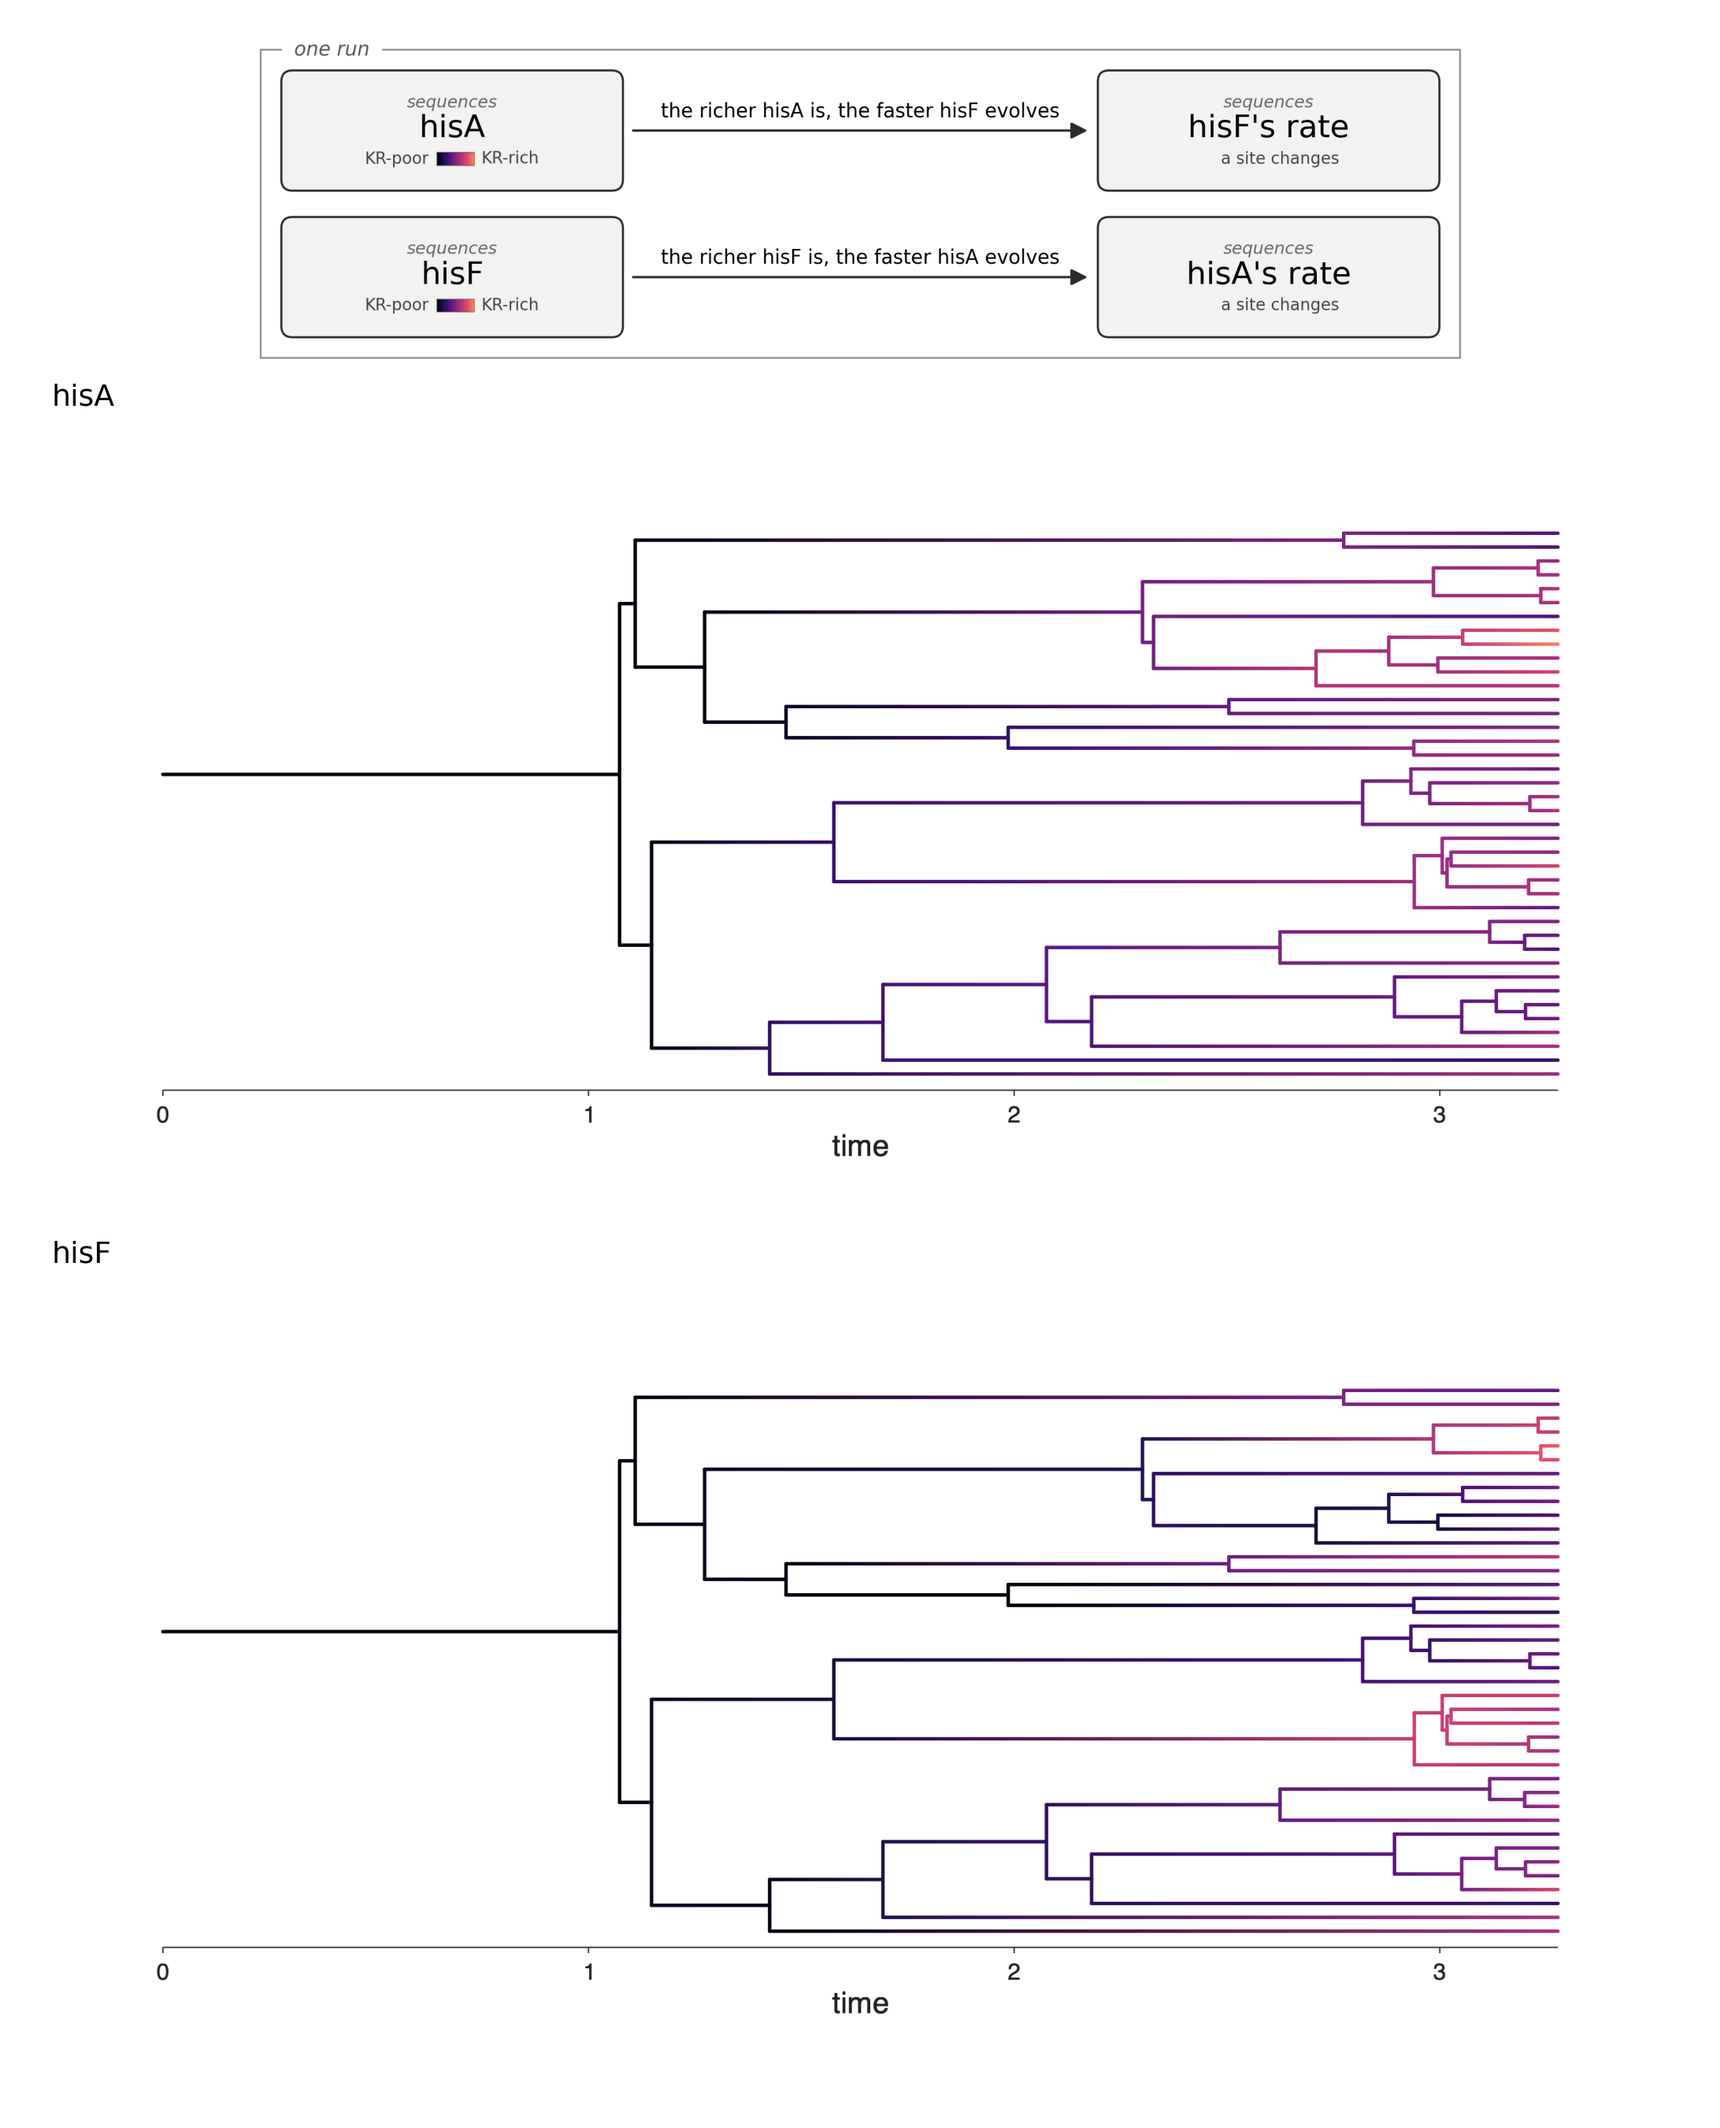
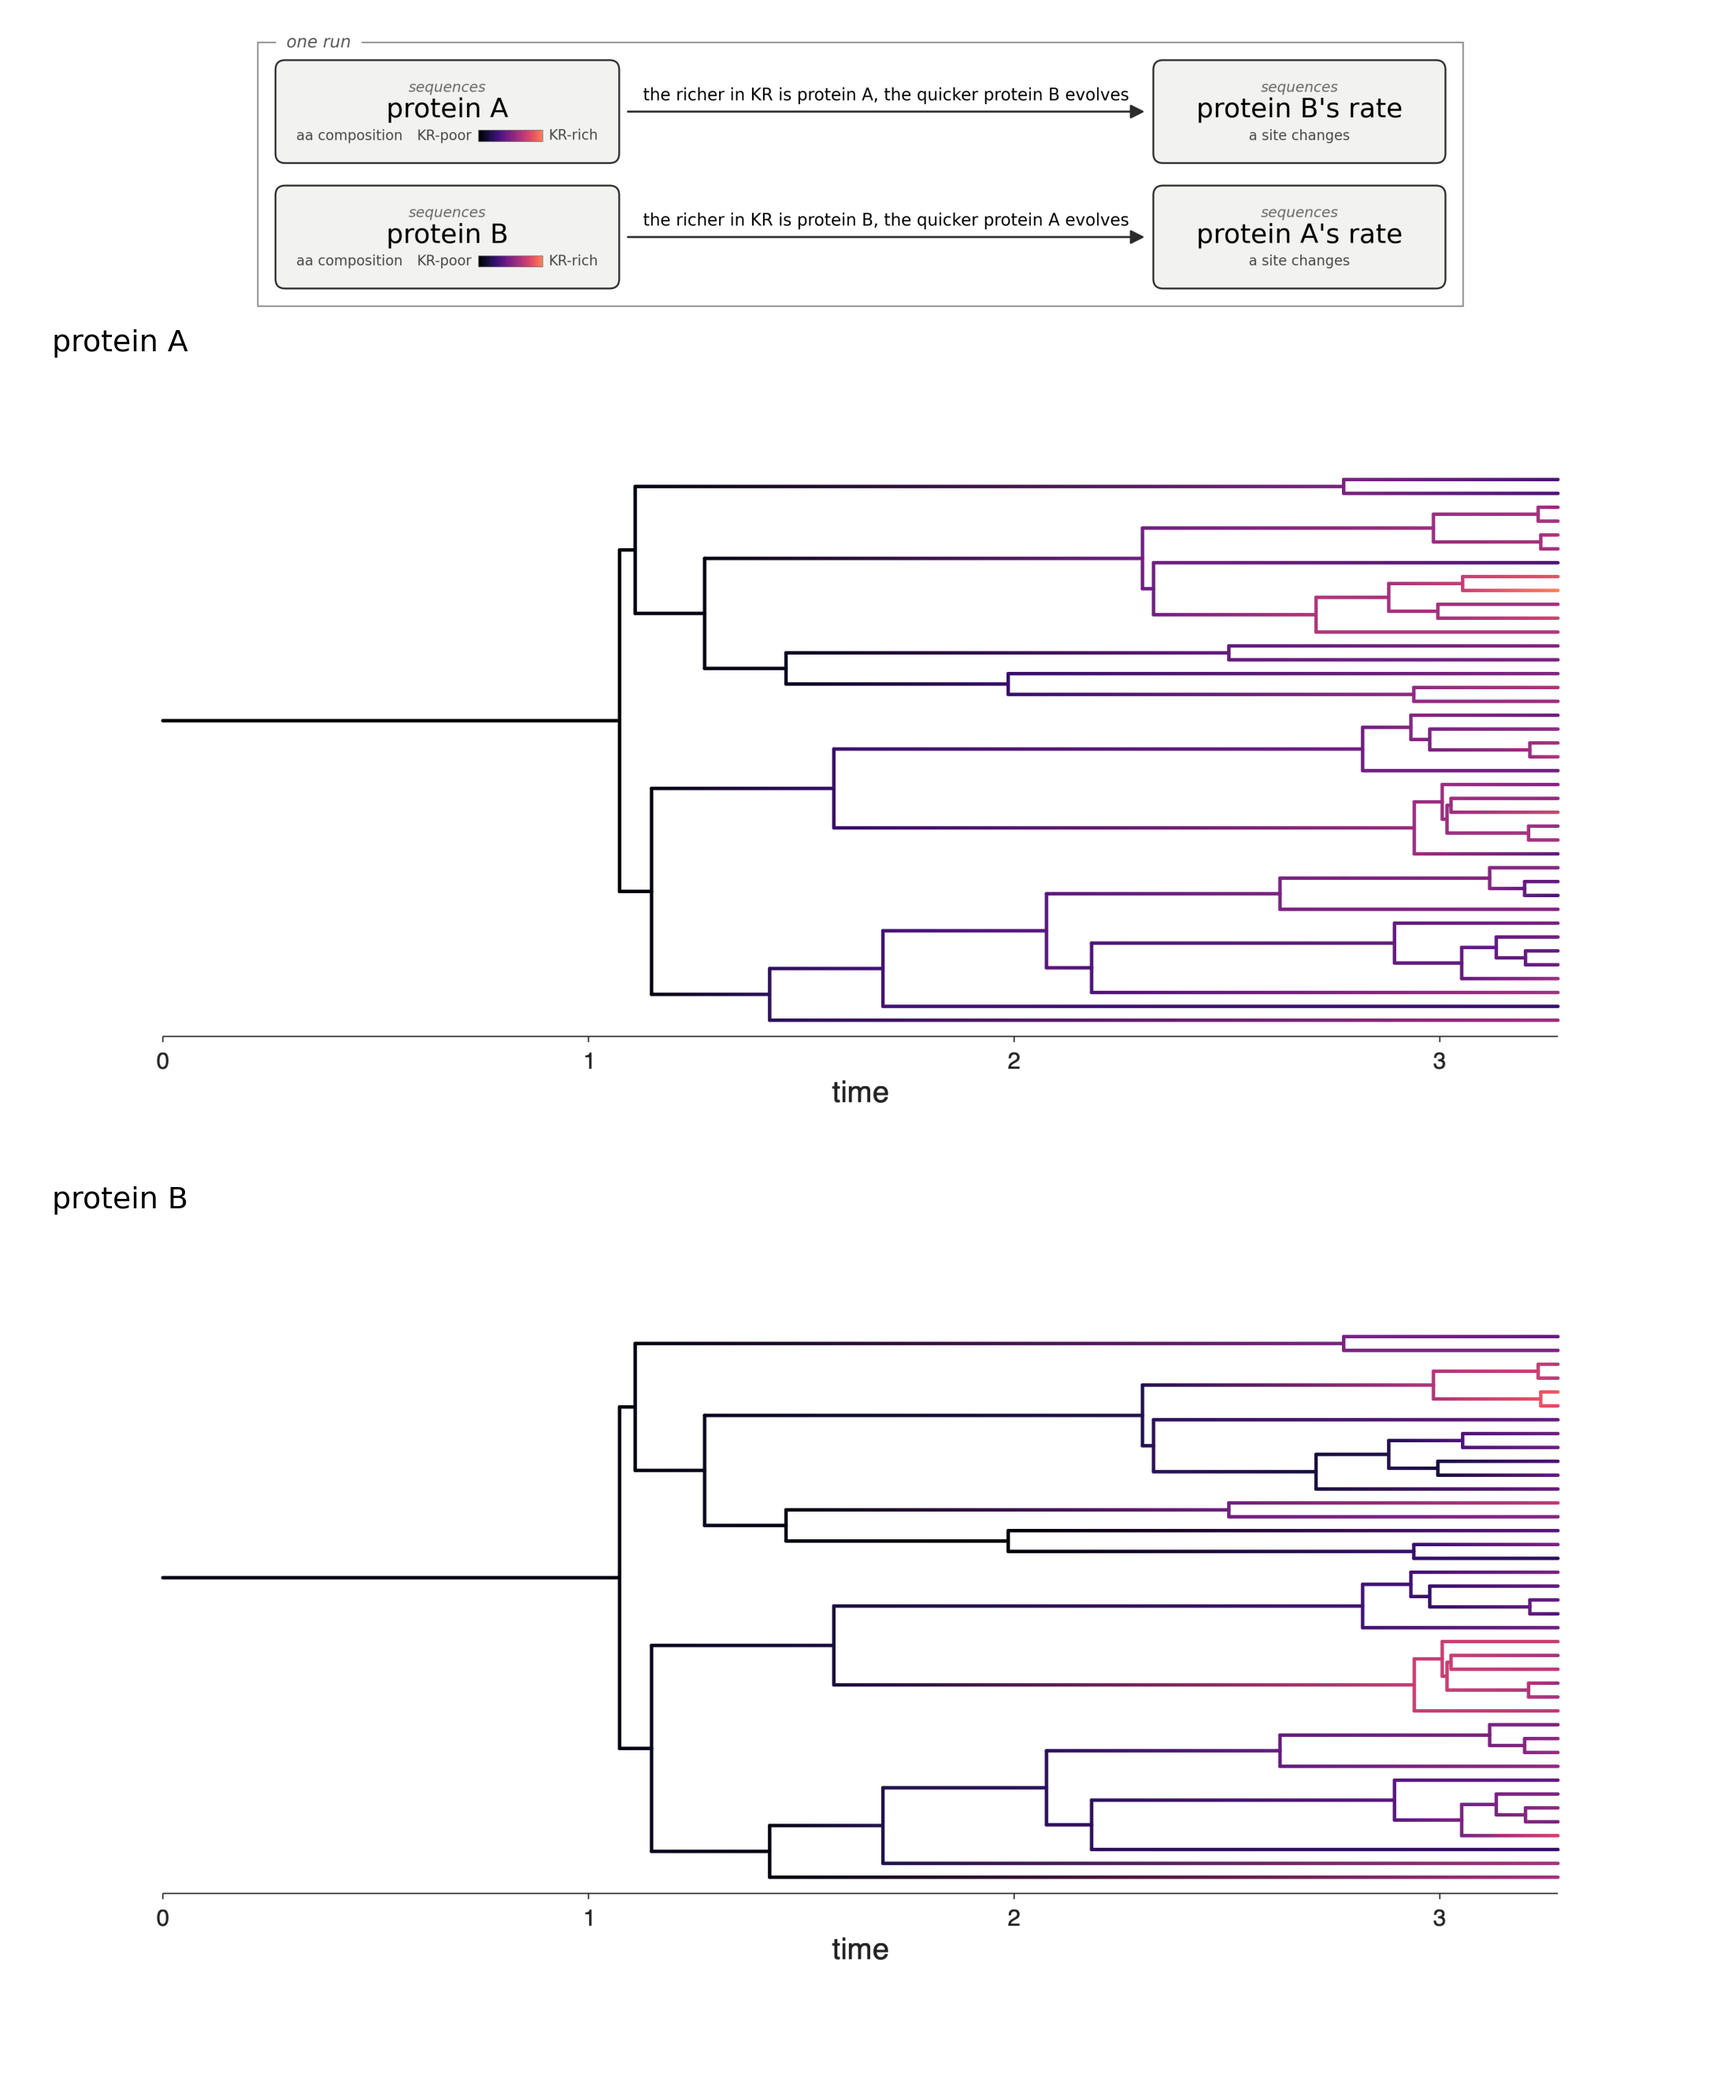
gallery(sequence_loop): Adrian's review round
The two genes are protein A and protein B, names that say what the
example is rather than borrowing his operon genes. The ramp is twice as
long, the key names its quantity (aa composition), and the arrows carry
his sentence: the richer in KR is protein A, the quicker protein B
evolves. The same key wording carries to trait_and_sequence's ramp.
Also a helper fix the round uncovered: word-type key entries were laid
out from a character-count guess and overlapped their neighbours; they
are measured now.

diff --git a/gallery/joining.py b/gallery/joining.py
@@ -524,17 +524,18 @@ def sequence_loop(out):
          + ph.trees.color_branches(shares[name], cmap="magma_dark", limits=span)
          + ph.trees.time_axis("time", tick_size=20, label_size=26, bold=False)).save(png)
         pngs.append(png)
-    ramp = [("gradient", "magma_dark", ("KR-poor", "KR-rich"))]
+    ramp = [("word", None, "aa composition"),
+            ("gradient", "magma_dark", ("KR-poor", "KR-rich"))]
     diag = h.joint_png(out.replace(".png", "_diag.png"), [
-        (("sequences", "hisA", ramp),
-         ("sequences", "hisF's rate", [("word", None, "a site changes")]),
-         "the richer hisA is, the faster hisF evolves"),
-        (("sequences", "hisF", ramp),
-         ("sequences", "hisA's rate", [("word", None, "a site changes")]),
-         "the richer hisF is, the faster hisA evolves"),
+        (("sequences", "protein A", ramp),
+         ("sequences", "protein B's rate", [("word", None, "a site changes")]),
+         "the richer in KR is protein A, the quicker protein B evolves"),
+        (("sequences", "protein B", ramp),
+         ("sequences", "protein A's rate", [("word", None, "a site changes")]),
+         "the richer in KR is protein B, the quicker protein A evolves"),
     ])
     # the ramp is named once per gene in the diagram, so the rows below carry no key of their own
-    h.composite_under_diagram(out, diag, [(pngs[0], "hisA"), (pngs[1], "hisF")],
+    h.composite_under_diagram(out, diag, [(pngs[0], "protein A"), (pngs[1], "protein B")],
                               diagram_frac=0.72)
 
 
@@ -600,7 +601,8 @@ def trait_and_sequence(out):
                                 ("swatch", _CLIMATE["hot"], "hot")]),
          ("sequences", "rpoB's rate", [("word", None, "a site changes")]),
          "hot lineages substitute 4× faster"),
-        (("sequences", "rpoB", [("gradient", "magma_dark", ("KR-poor", "KR-rich"))]),
+        (("sequences", "rpoB", [("word", None, "aa composition"),
+                                 ("gradient", "magma_dark", ("KR-poor", "KR-rich"))]),
          ("traits", "switch rate", _switch_key(_CLIMATE, ["hot", "cold"])),
          "the richer rpoB is, the readier the switch to hot"),
     ])

diff --git a/gallery/helpers.py b/gallery/helpers.py
@@ -821,9 +821,11 @@ def _joint_key_width(entry, measure) -> float:
     kind, _colour, word = entry
     if kind == "gradient":                       # low name · ramp · high name
         low, high = word
-        return measure(low, _JOINT_KEY_FS) + measure(high, _JOINT_KEY_FS) + 56
+        return measure(low, _JOINT_KEY_FS) + measure(high, _JOINT_KEY_FS) + 96
     if kind == "word":                           # no glyph exists for it, so the word stands alone
-        return len(word) * _JOINT_KEY_FS * 0.58
+        # measured, not estimated: the word draws at the entry's left edge with no glyph
+        # offset, so a real measure lines the next entry up exactly
+        return measure(word, _JOINT_KEY_FS)
     return 22 + len(word) * _JOINT_KEY_FS * 0.58
 
 
@@ -868,12 +870,12 @@ def _draw_joint_key(ax, x, y, entries) -> None:
             ax.text(cx, y, low, ha="left", va="center", fontsize=fs, color="#444")
             x0 = cx + measure(low, fs) + 8
             ramp = plt.get_cmap(colour)
-            for k in range(40):                  # drawn as strips: imshow would fight the equal aspect
-                ax.add_patch(Rectangle((x0 + k, y - 7), 1.06, 14, facecolor=ramp(k / 39.0),
+            for k in range(80):                  # drawn as strips: imshow would fight the equal aspect
+                ax.add_patch(Rectangle((x0 + k, y - 7), 1.06, 14, facecolor=ramp(k / 79.0),
                                        edgecolor="none"))
-            ax.add_patch(Rectangle((x0, y - 7), 40, 14, facecolor="none", edgecolor="#666",
+            ax.add_patch(Rectangle((x0, y - 7), 80, 14, facecolor="none", edgecolor="#666",
                                    linewidth=0.5))
-            ax.text(x0 + 48, y, high, ha="left", va="center", fontsize=fs, color="#444")
+            ax.text(x0 + 88, y, high, ha="left", va="center", fontsize=fs, color="#444")
             cx += w + 18
             continue
         ax.text(cx + (20 if kind == "swatch" else 0 if kind == "word" else 18), y, word,
